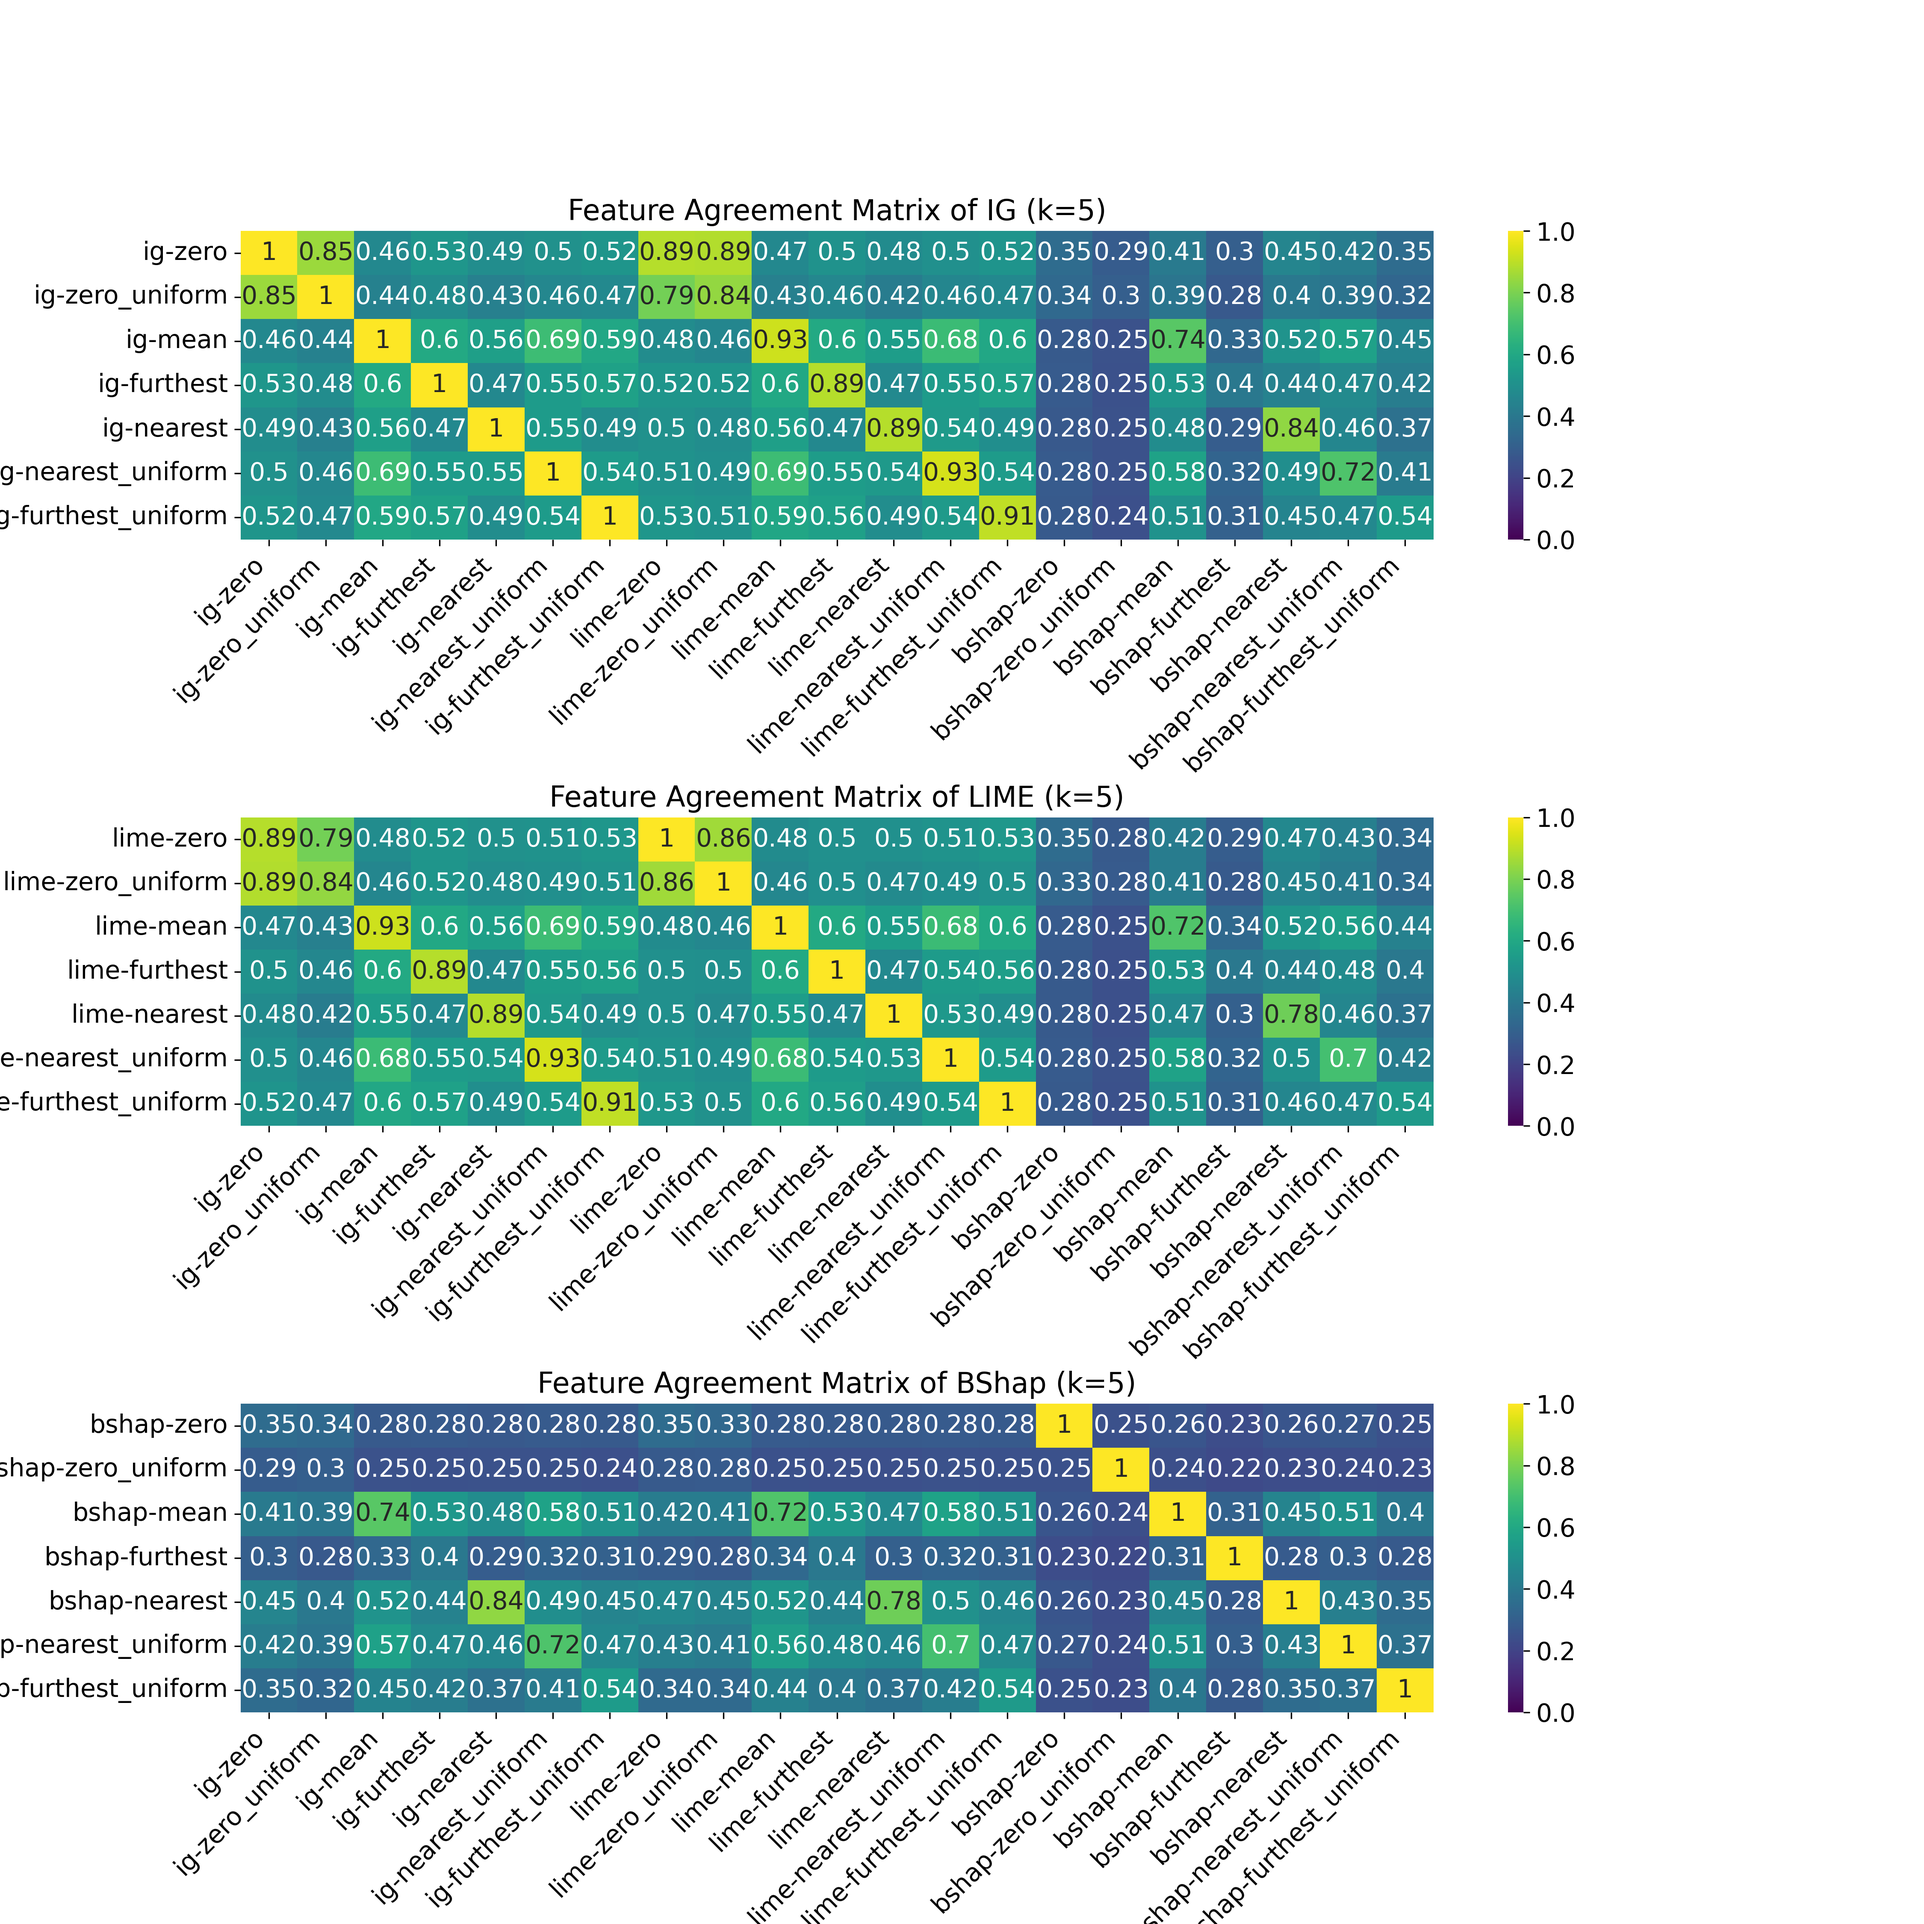
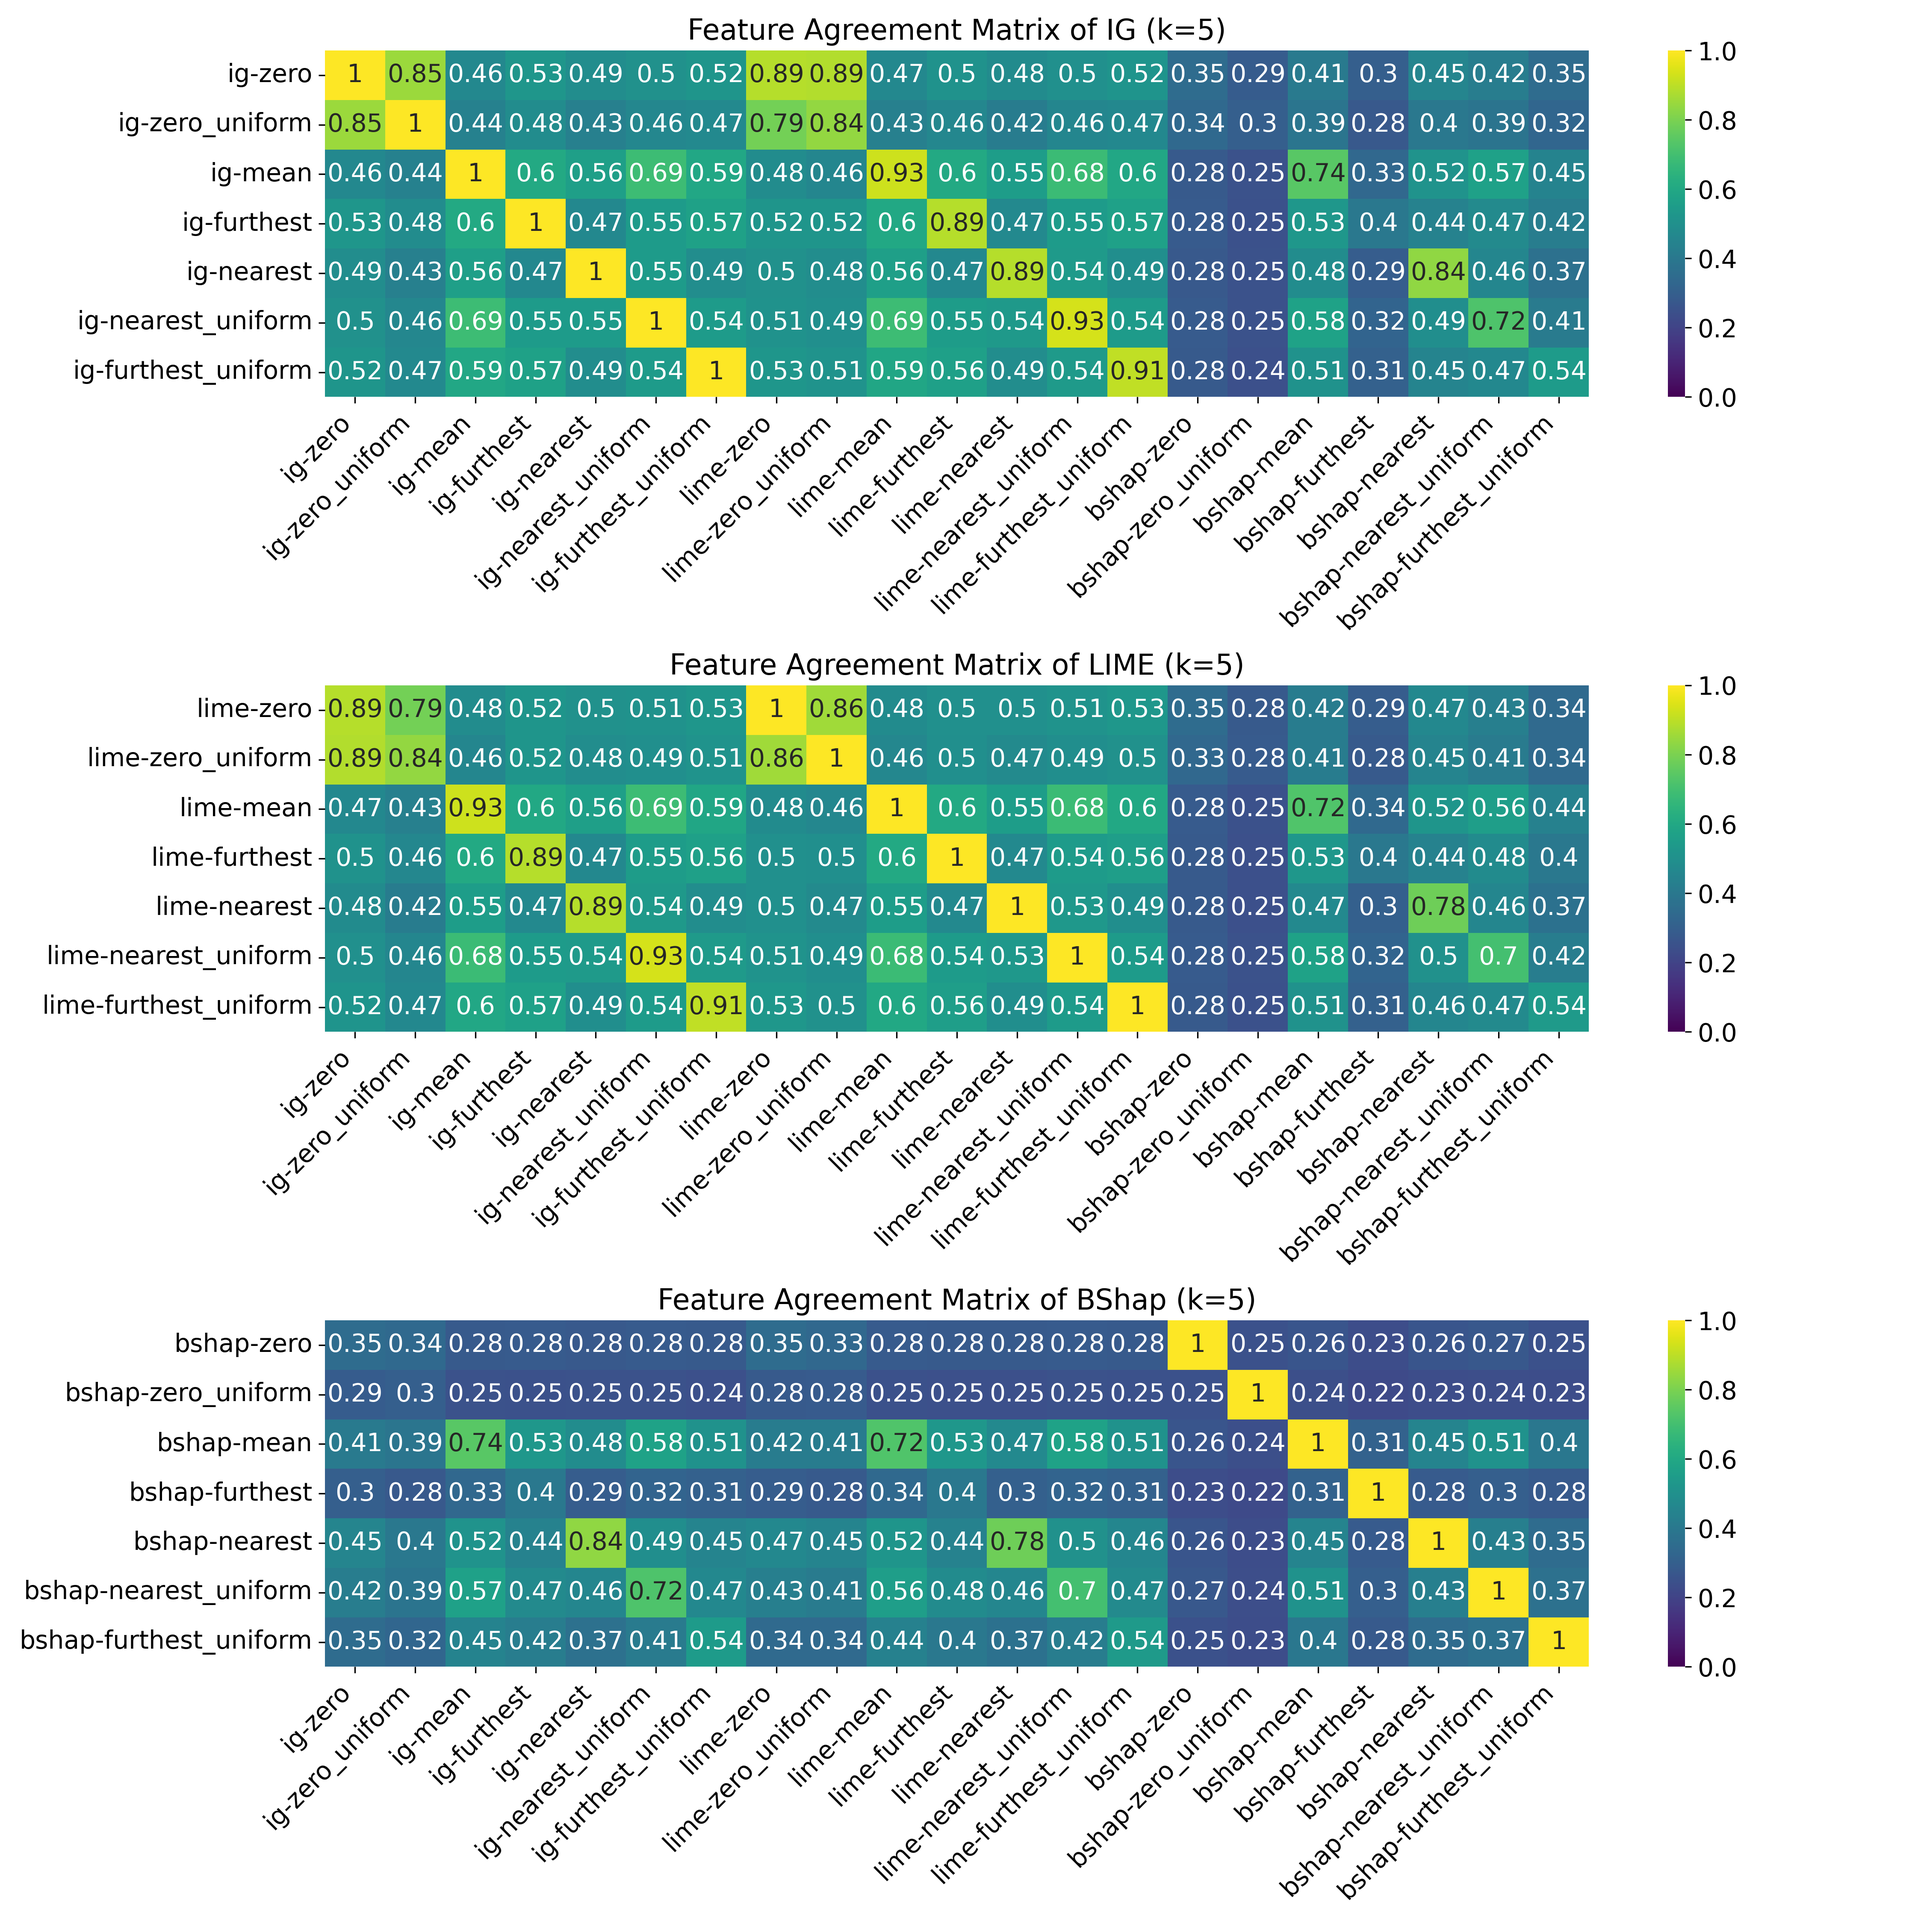
fix: fixed problem that saved plot is cut off on sides

diff --git a/evaluation/utils/visualisation.py b/evaluation/utils/visualisation.py
@@ -277,6 +277,9 @@ def visualize_feature_agreement_matrices(
     cbar.ax.tick_params(labelsize=14)
 
     plt.subplots_adjust(hspace=0.9)
+    plt.subplots_adjust(left=0.1)
+
+    plt.tight_layout()
 
     if save_fig:
         path = os.path.join(BASE_DIR, "figures", f"feature_agreement_matrix_k_{k}_rank_agreement_{rank_agreement}.png")
